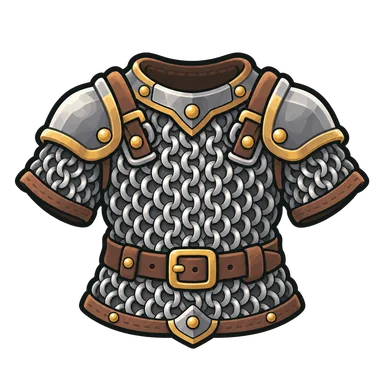
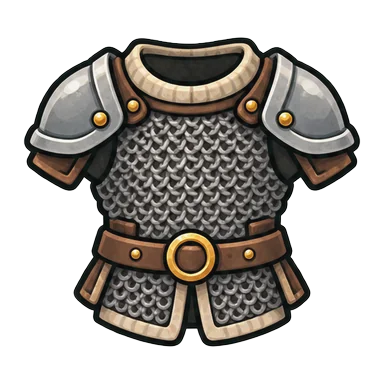
Hero wears the equipped armour tier; attack pose follows the weapon; new weapon/armour art
Claude-Session: https://claude.ai/code/session_016qs5P8iCHLFro2wJwMCrvv

diff --git a/index.html b/index.html
@@ -721,7 +721,7 @@ body.onb-open{overflow:hidden}
 .gen-ask{border:1.5px solid color-mix(in srgb,var(--accent) 45%,var(--line));border-radius:12px;padding:10px 12px;display:flex;flex-direction:column;gap:8px}
 .hero-art{position:relative;display:block}.hero-art .ha-in{position:relative;width:100%;height:100%}
 .hero-art img{position:relative;display:block;width:100%;height:100%;object-fit:contain;pointer-events:none;user-select:none}
-.hero-art .ha-wpn{position:absolute;inset:0;width:100%;height:100%;overflow:visible;pointer-events:none;transform:scaleX(-1)}
+.hero-art .ha-wpn{position:absolute;inset:0;width:100%;height:100%;overflow:visible;pointer-events:none}
 .hero-stage .hs-fig .hero-art{position:relative;z-index:1;width:100%;height:100%}
 .onb-art{width:200px;max-width:70%;height:auto;margin-top:4px}.onb-art.sm{width:150px}
 .play-head{display:flex;align-items:center;gap:10px}.play-head>div{flex:1;min-width:0}.play-art{width:110px;height:auto;flex:none}
@@ -1977,7 +1977,7 @@ function huntHtml(){
 }
 
 // hand-drawn pictures in assets/art (add the name here when a new picture is uploaded)
-const PICS=new Set(["armor-metal-1", "armor-metal-2", "town-changeling", "town-leprechaun", "town-merrow", "weapon-metal-1", "weapon-metal-2"]);
+const PICS=new Set(["armor-earth-1", "armor-earth-2", "armor-earth-3", "armor-earth-4", "armor-fire-1", "armor-fire-2", "armor-fire-3", "armor-fire-4", "armor-metal-1", "armor-metal-2", "armor-metal-3", "armor-metal-4", "armor-water-1", "armor-water-2", "armor-water-3", "armor-water-4", "armor-wood-1", "armor-wood-2", "armor-wood-3", "armor-wood-4", "town-changeling", "town-leprechaun", "town-merrow", "weapon-earth-1", "weapon-earth-2", "weapon-earth-3", "weapon-earth-4", "weapon-fire-1", "weapon-fire-2", "weapon-fire-3", "weapon-fire-4", "weapon-metal-1", "weapon-metal-2", "weapon-metal-3", "weapon-metal-4", "weapon-water-1", "weapon-water-2", "weapon-water-3", "weapon-water-4", "weapon-wood-1", "weapon-wood-2", "weapon-wood-3", "weapon-wood-4"]);
 const picOfMon=t=>{ const mid=t&&t.foe&&t.foe.mid; if(!mid) return null; const k=mid.startsWith("w_")?"wild-"+mid.slice(2).replace(/_/g,"-"):"town-"+mid; return PICS.has(k)?k:null; };
 const picOfItem=it=>{ if(!it||it.tier==null) return null; const k=`${it.slot==="weapon"?"weapon":"armor"}-${it.el}-${it.tier+1}`; return PICS.has(k)?k:null; };
 function monSvg(t, cls){ const pk=picOfMon(t); if(pk) return `<img src="assets/art/${pk}.webp" class="${cls||"mon-art"} pic" alt="" draggable="false">`; const f=ART[t.foe.mid]; return f?`<svg viewBox="0 0 100 100" class="${cls||"mon-art"}" aria-hidden="true">${f()}</svg>`:""; }
@@ -2695,7 +2695,7 @@ function devPanel(){
     ${devStatsHtml()}
     <button class="btn" data-act="devexit" style="background:var(--bad)">${T("devExit")}</button></section>`;
 }
-const APP_VERSION="2026.10.76";
+const APP_VERSION="2026.10.77";
 const SUPPORT_ON=false;   // 「贊助開發者」card: hidden until the official release (still shown in developer mode for preview)   // 年份.月份.版號 — bump the build number on every release, reset to 1 each new month
 function devFooter(){
   return `<div class="dev-foot"><button class="ver" data-act="devtap">${T("version")} ${APP_VERSION}</button>
@@ -4620,19 +4620,27 @@ Object.assign(STR.es,{genTitle:"Elige tu personaje", genSub:"¡Elige el aventure
 Object.assign(STR.ja,{genTitle:"キャラクターを選ぶ", genSub:"好きな冒険キャラクターを選ぼう！", genM:"男の子", genF:"女の子", genConfirm:"「{g}」にしますか？", genYes:"決定", genDone:"キャラクターが決まりました！", onbGender:"冒険するキャラクターを選ぼう", onbGenderNeed:"先にキャラクターを選んでください"});
 Object.assign(STR.ko,{genTitle:"캐릭터 선택", genSub:"마음에 드는 모험가를 골라 보세요!", genM:"남자", genF:"여자", genConfirm:"“{g}”(으)로 할까요?", genYes:"확인", genDone:"캐릭터가 정해졌어요!", onbGender:"모험할 캐릭터를 고르세요", onbGenderNeed:"먼저 캐릭터를 골라 주세요"});
 /* ----- hero pictures (assets/art/hero-<m|f>-<pose>.webp); the equipped weapon is drawn in the hand ----- */
-const HERO_HAND={idle:[[0.12,0.57,-180],[0.12,0.57,-180]], attack:[[0.215,0.40,-35],[0.215,0.425,-35]]};
+const HERO_FILES=new Set(["f-cloth-bow","f-cloth-cast","f-cloth-hurt","f-cloth-idle","f-cloth-slash","f-cloth-smash","f-cloth-thrust","f-cloth-win","f-metal1-bow","f-metal1-cast","f-metal1-hurt","f-metal1-idle","f-metal1-slash","f-metal1-smash","f-metal1-thrust","f-metal1-win","f-metal2-bow","f-metal2-cast","f-metal2-hurt","f-metal2-idle","f-metal2-slash","f-metal2-smash","f-metal2-thrust","f-metal2-win","f-metal3-bow","f-metal3-cast","f-metal3-hurt","f-metal3-idle","f-metal3-slash","f-metal3-smash","f-metal3-thrust","f-metal3-win","f-metal4-bow","f-metal4-cast","f-metal4-hurt","f-metal4-idle","f-metal4-slash","f-metal4-smash","f-metal4-thrust","f-metal4-win","f-wood1-bow","f-wood1-cast","f-wood1-hurt","f-wood1-idle","f-wood1-slash","f-wood1-smash","f-wood1-thrust","f-wood1-win","f-wood2-bow","f-wood2-cast","f-wood2-hurt","f-wood2-idle","f-wood2-slash","f-wood2-smash","f-wood2-thrust","f-wood2-win","f-wood3-bow","f-wood3-cast","f-wood3-hurt","f-wood3-idle","f-wood3-slash","f-wood3-smash","f-wood3-thrust","f-wood3-win","f-wood4-hurt","f-wood4-idle","f-wood4-slash","f-wood4-win","m-cloth-bow","m-cloth-cast","m-cloth-hurt","m-cloth-idle","m-cloth-slash","m-cloth-smash","m-cloth-thrust","m-cloth-win","m-metal1-bow","m-metal1-cast","m-metal1-hurt","m-metal1-idle","m-metal1-slash","m-metal1-smash","m-metal1-thrust","m-metal1-win","m-metal2-bow","m-metal2-cast","m-metal2-hurt","m-metal2-idle","m-metal2-slash","m-metal2-smash","m-metal2-thrust","m-metal2-win","m-metal3-bow","m-metal3-cast","m-metal3-hurt","m-metal3-idle","m-metal3-slash","m-metal3-smash","m-metal3-thrust","m-metal3-win","m-metal4-bow","m-metal4-cast","m-metal4-hurt","m-metal4-idle","m-metal4-slash","m-metal4-smash","m-metal4-thrust","m-metal4-win","m-wood1-bow","m-wood1-cast","m-wood1-hurt","m-wood1-idle","m-wood1-slash","m-wood1-smash","m-wood1-thrust","m-wood1-win","m-wood2-bow","m-wood2-cast","m-wood2-hurt","m-wood2-idle","m-wood2-slash","m-wood2-smash","m-wood2-thrust","m-wood2-win","m-wood3-bow","m-wood3-cast","m-wood3-hurt","m-wood3-idle","m-wood3-slash","m-wood3-smash","m-wood3-thrust","m-wood3-win","m-wood4-bow","m-wood4-cast","m-wood4-hurt","m-wood4-idle","m-wood4-slash","m-wood4-smash","m-wood4-thrust","m-wood4-win"]); /*HERO_FILES*/
+/* where the gripping hand is in each pose (fraction of the 512 canvas) and which way the weapon points (degrees, 0 = right, -90 = up) */
+const HERO_GRIP={m:{idle:[.63,.71,-75], slash:[.40,.25,-115], thrust:[.83,.63,-4], smash:[.45,.15,-95], bow:[.82,.53,90], cast:[.22,.41,-88]},
+                 f:{idle:[.64,.67,-75], slash:[.40,.27,-115], thrust:[.78,.63,-4], smash:[.45,.15,-95], bow:[.78,.50,90], cast:[.30,.28,-88]}};
+/* where the hand holds each weapon picture (fraction of the item image, drawn tip up-right) and how big it is */
+const KIND_GRIP={sword:[.24,.76,.42], staff:[.40,.62,.52], orbstaff:[.40,.62,.55], trident:[.45,.56,.58], bow:[.5,.5,.46], hammer:[.24,.76,.42], warhammer:[.24,.76,.46]};
+function heroOutfit(gen){ const a=game().armor&&ITEMS[game().armor], k=a?`${a.el}${a.tier+1}`:"cloth"; return HERO_FILES.has(`${gen}-${k}-idle`)?k:"cloth"; }
+function heroAct(w){ return w?(KIND_ACT[WKIND[w.el][w.tier]]||"slash"):"slash"; }
 function heroArt(pose, gOverride){
   const g=game(), gen=gOverride||g.gender; if(!gen) return heroSvg(gOverride);
-  const w=!gOverride&&g.weapon&&ITEMS[g.weapon], hand=HERO_HAND[pose];
-  let wpn="";
-  if(w&&hand){ const [x,y,r]=hand[gen==="f"?1:0], bow=WKIND[w.el][w.tier]==="bow";
-    const pk=picOfItem(w);
-    wpn=pk?`<svg class="ha-wpn" viewBox="0 0 100 100" aria-hidden="true"><g transform="translate(${x*100} ${y*100}) rotate(${r+45}) scale(-1 1)"><image href="assets/art/${pk}.webp" x="-9.2" y="-32.8" width="42" height="42"/></g></svg>`
-      :`<svg class="ha-wpn" viewBox="0 0 100 100" aria-hidden="true"><g transform="translate(${x*100} ${(pose==="idle"?0.645:y)*100}) rotate(${pose==="idle"?0:r}) scale(${pose==="idle"?.55:.42}) translate(${bow?"-28 -32":"-32 -50"})">${weaponGlyph(w)}</g></svg>`; }
-  // idle: weapon planted in the ground beside the hero; attack: held in the hand
-  return `<div class="hero-svg hero-art ha-${pose}"><div class="ha-in"><img src="assets/art/hero-${gen}-${pose}.webp?v=2" alt="" draggable="false">${wpn}</div></div>`;
+  const w=!gOverride&&g.weapon&&ITEMS[g.weapon], act=pose==="attack"?heroAct(w):pose, out=gOverride?"cloth":heroOutfit(gen);
+  const key=HERO_FILES.has(`${gen}-${out}-${act}`)?`${gen}-${out}-${act}`:`${gen}-cloth-${act}`;
+  const grip=HERO_GRIP[gen][act]; let wpn="";
+  if(w&&grip){ const [x,y,d]=grip, kind=WKIND[w.el][w.tier], [gx,gy,L]=KIND_GRIP[kind]||[.25,.75,.45], pk=picOfItem(w);
+    wpn=`<svg class="ha-wpn" viewBox="0 0 100 100" aria-hidden="true"><g transform="translate(${x*100} ${y*100}) rotate(${d+45})">${pk
+      ?`<image href="assets/art/${pk}.webp" x="${-gx*L*100}" y="${-gy*L*100}" width="${L*100}" height="${L*100}"/>`
+      :`<g transform="rotate(45) scale(.5) translate(-32 -54)">${weaponGlyph(w)}</g>`}</g></svg>`; }
+  return `<div class="hero-svg hero-art ha-${pose}"><div class="ha-in"><img src="assets/art/hero/${key}.webp" alt="" draggable="false">${wpn}</div></div>`;
 }
-setTimeout(()=>{ const g=game(); if(g&&g.gender) ["idle","attack","hurt","win"].forEach(p=>{ const i=new Image(); i.src=`assets/art/hero-${g.gender}-${p}.webp`; }); },3000);
+setTimeout(()=>{ const g=game(); if(!g||!g.gender) return; const o=heroOutfit(g.gender), w=g.weapon&&ITEMS[g.weapon];
+  ["idle",heroAct(w),"hurt","win"].forEach(p=>{ const i=new Image(); i.src=`assets/art/hero/${g.gender}-${HERO_FILES.has(`${g.gender}-${o}-${p}`)?o:"cloth"}-${p}.webp`; }); },3000);
 /* ----- Chapter 2 (Great Britain) placeholder: unlocks after Balor of Dublin is defeated at Lv 20 ----- */
 const CH2_LV=20;
 const FUTURE_SLOTS=[["shield",'<svg viewBox="0 0 24 24" fill="none" stroke="currentColor" stroke-width="1.8"><path d="M12 3l8 3v6c0 5-3.5 8-8 9-4.5-1-8-4-8-9V6z"/></svg>'],
